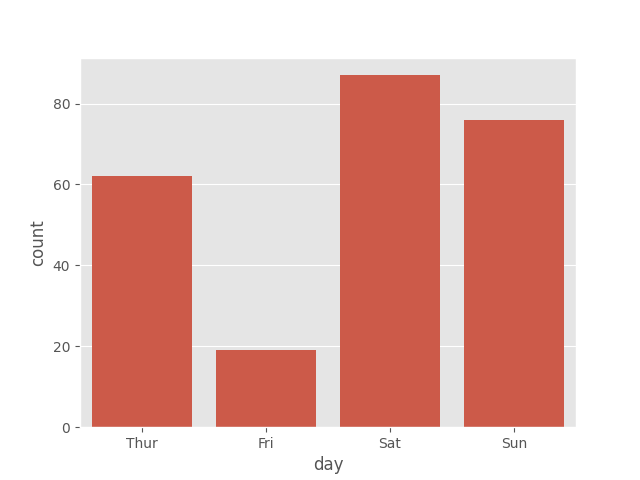
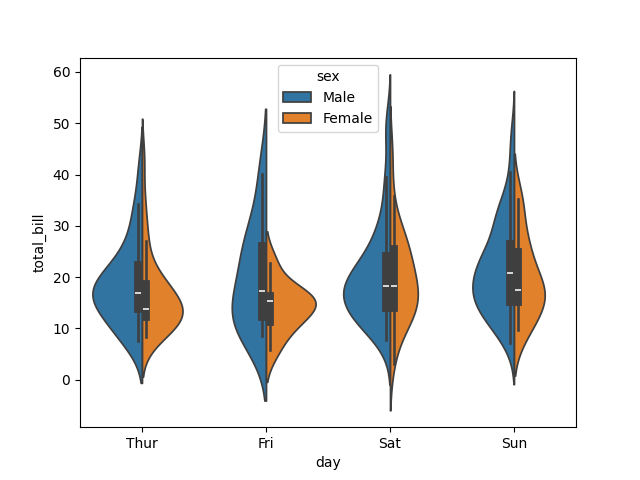
updated

diff --git a/_posts/visualization/example.py b/_posts/visualization/example.py
@@ -18,7 +18,20 @@ print(df.head())
 # sns.set_theme(style="whitegrid")
 # sns.pointplot(data=df, x="day", y="tip")
 
-sns.countplot(data=df, x="day")
+# sns.countplot(data=df, x="day")
+# sns.histplot(data=df, x="total_bill")
+# sns.histplot(data=df, x="total_bill", bins=20)
+# sns.kdeplot(data=df, x="total_bill")
+# sns.histplot(data=df, x="total_bill", kde=True)
+# sns.boxplot(data=df, x="day", y="total_bill")
+sns.violinplot(
+    data=df,
+    x="day",
+    y="total_bill",
+    hue="sex",
+    split=True
+)
+# sns.violinplot(data=df, x="day", y="total_bill")
 
 pt.savefig('/home/geo/Downloads/geo/_posts/visualization/output.png')
 print("图片已生成在 Downloads 目录下，请双击查看！")

diff --git a/_posts/visualization/2026-01-30-visualization.md b/_posts/visualization/2026-01-30-visualization.md
@@ -1,9 +1,142 @@
 ---
 layout: post
-title:  data visualization seaborn 入门
+title:  data visualization seaborn 入门-2
 date:   2026-01-30 09:01:00 +0800
-image: 04.jpg
+image: 15.jpg
 tags: 
     - python
     - visualization
 ---
+
+## 直方图 Histogram
+
+```python
+import seaborn as sns
+import matplotlib.pyplot as plt
+
+df = sns.load_dataset("tips")
+
+sns.histplot(data=df, x="total_bill")
+plt.show()
+```
+
+* 集中区间
+* 分布形状
+* 是否右偏 / 左偏
+
+---
+
+### 调整分箱（bins）
+
+```python
+sns.histplot(data=df, x="total_bill", bins=20)
+plt.show()
+```
+
+* bins 太少 → 模糊
+* bins 太多 → 噪音
+
+---
+
+## KDE：平滑后的分布
+
+```python
+sns.kdeplot(data=df, x="total_bill")
+plt.show()
+```
+
+KDE 是：
+
+* 概率密度估计
+* 「趋势版」直方图
+
+---
+
+### Histogram + KDE（最常用）
+
+```python
+sns.histplot(data=df, x="total_bill", kde=True)
+plt.show()
+```
+
+---
+
+## 分组分布
+
+### 不同性别的账单分布
+
+```python
+sns.histplot(
+    data=df,
+    x="total_bill",
+    hue="sex",
+    kde=True
+)
+plt.show()
+```
+
+* 谁的消费更分散？
+* 是否重叠？
+
+---
+
+## 箱型图 Boxplot
+
+* 中位数在哪？
+* 分布范围？
+* 有没有异常值？
+
+```python
+sns.boxplot(data=df, x="day", y="total_bill")
+plt.show()
+```
+
+### Boxplot 能告诉你：
+
+* 中位数（不是平均）
+* 四分位数
+* 离群点（outliers）
+
+---
+
+## 小提琴图 Violin Plot
+
+```python
+sns.violinplot(data=df, x="day", y="total_bill")
+plt.show()
+```
+
+Violin = **Boxplot + KDE**
+
+适合：
+
+* 对比分布形状
+* 学术 / 报告展示
+
+---
+
+### 加分组（hue）
+
+```python
+sns.violinplot(
+    data=df,
+    x="day",
+    y="total_bill",
+    hue="sex",
+    split=True
+)
+plt.show()
+```
+
+split=True = 左右对比
+
+---
+
+## 四种分布图怎么选？
+
+| 场景    | 推荐           |
+| ----- | ------------ |
+| 看整体分布 | hist / kde   |
+| 比较群体  | box / violin |
+| 找异常   | boxplot      |
+| 看形状   | violin       |

diff --git a/_posts/visualization/2026-01-31-visualization.md b/_posts/visualization/2026-01-31-visualization.md
@@ -1,0 +1,11 @@
+---
+layout: post
+title:  data visualization seaborn 入门-3
+date:   2026-01-31 09:01:00 +0800
+image: 15.jpg
+tags: 
+    - python
+    - visualization
+---
+
+...

diff --git a/_posts/visualization/2026-01-29-visualization.md b/_posts/visualization/2026-01-29-visualization.md
@@ -2,7 +2,7 @@
 layout: post
 title:  data visualization seaborn 入门
 date:   2026-01-29 09:01:00 +0800
-image: 04.jpg
+image: 15.jpg
 tags: 
     - python
     - visualization
